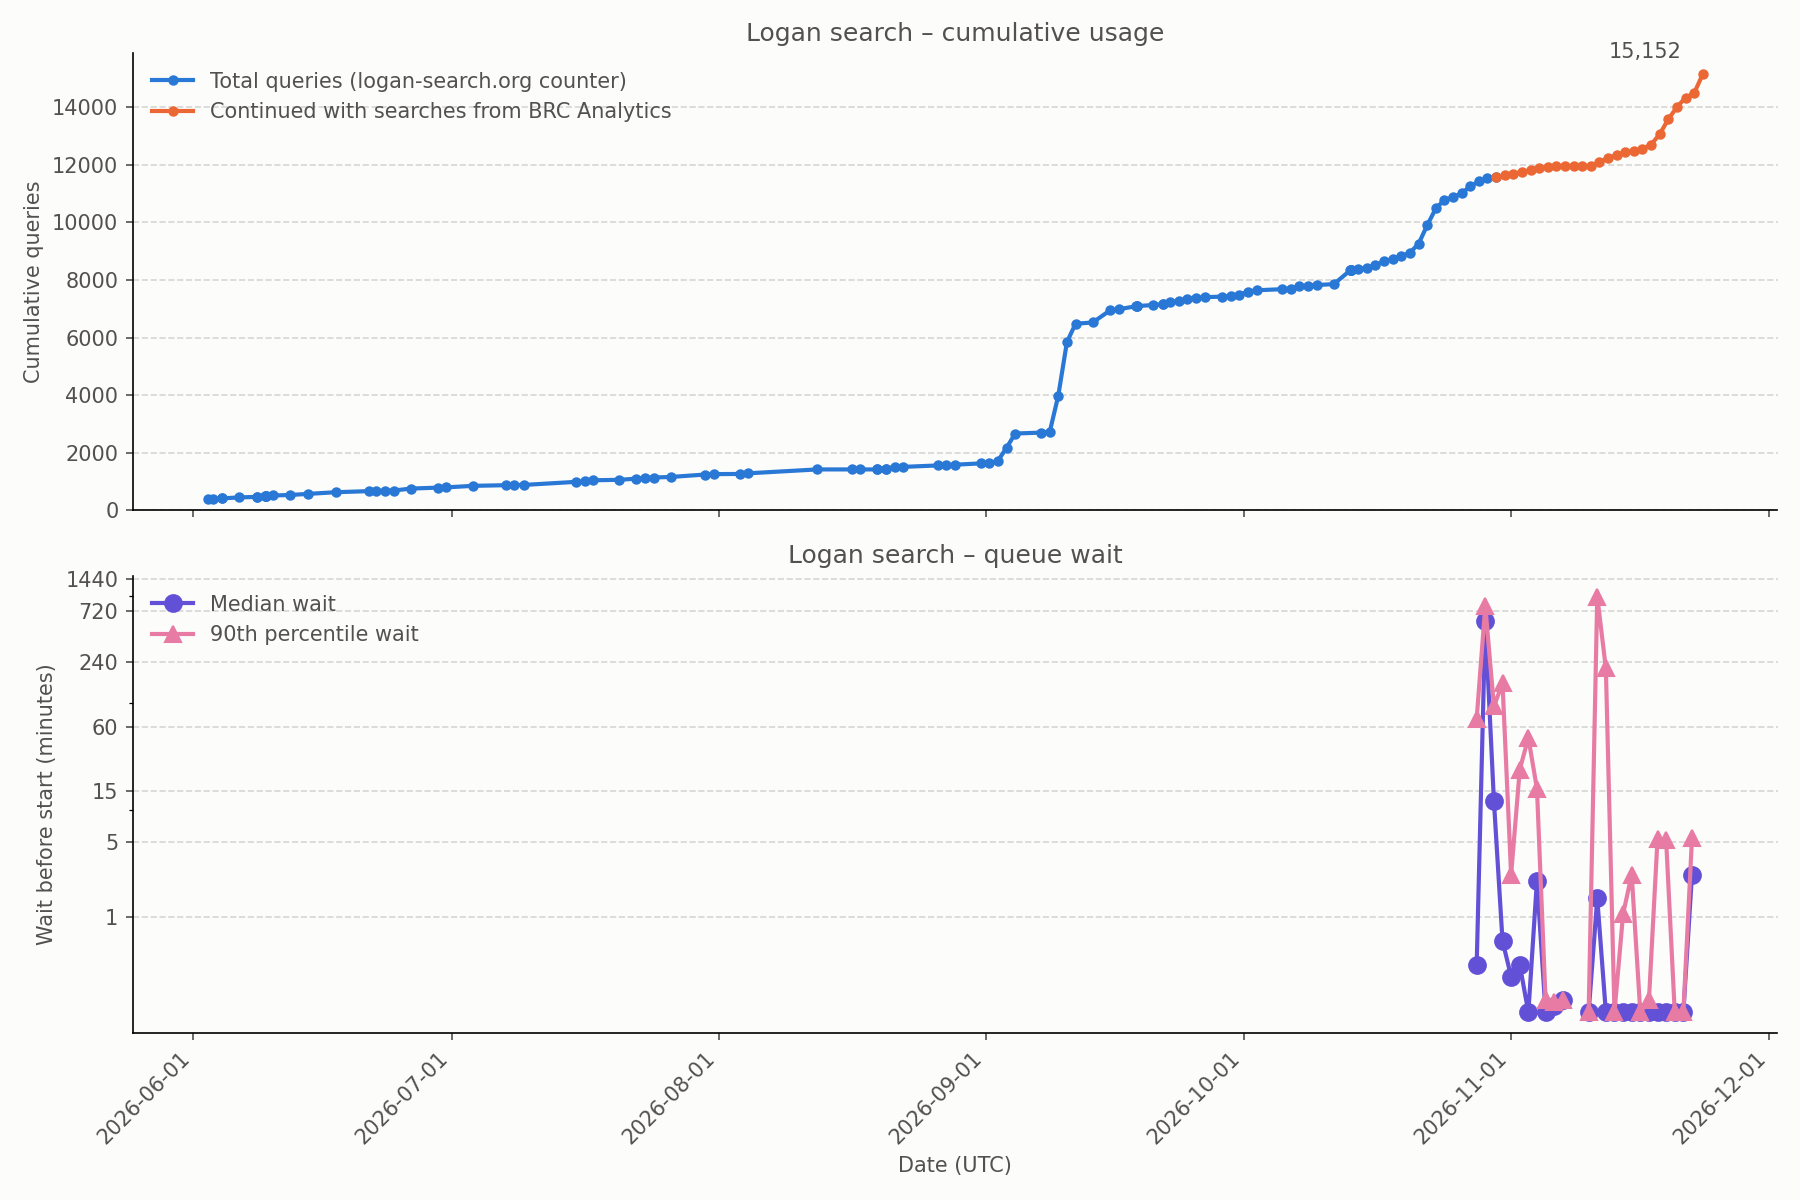
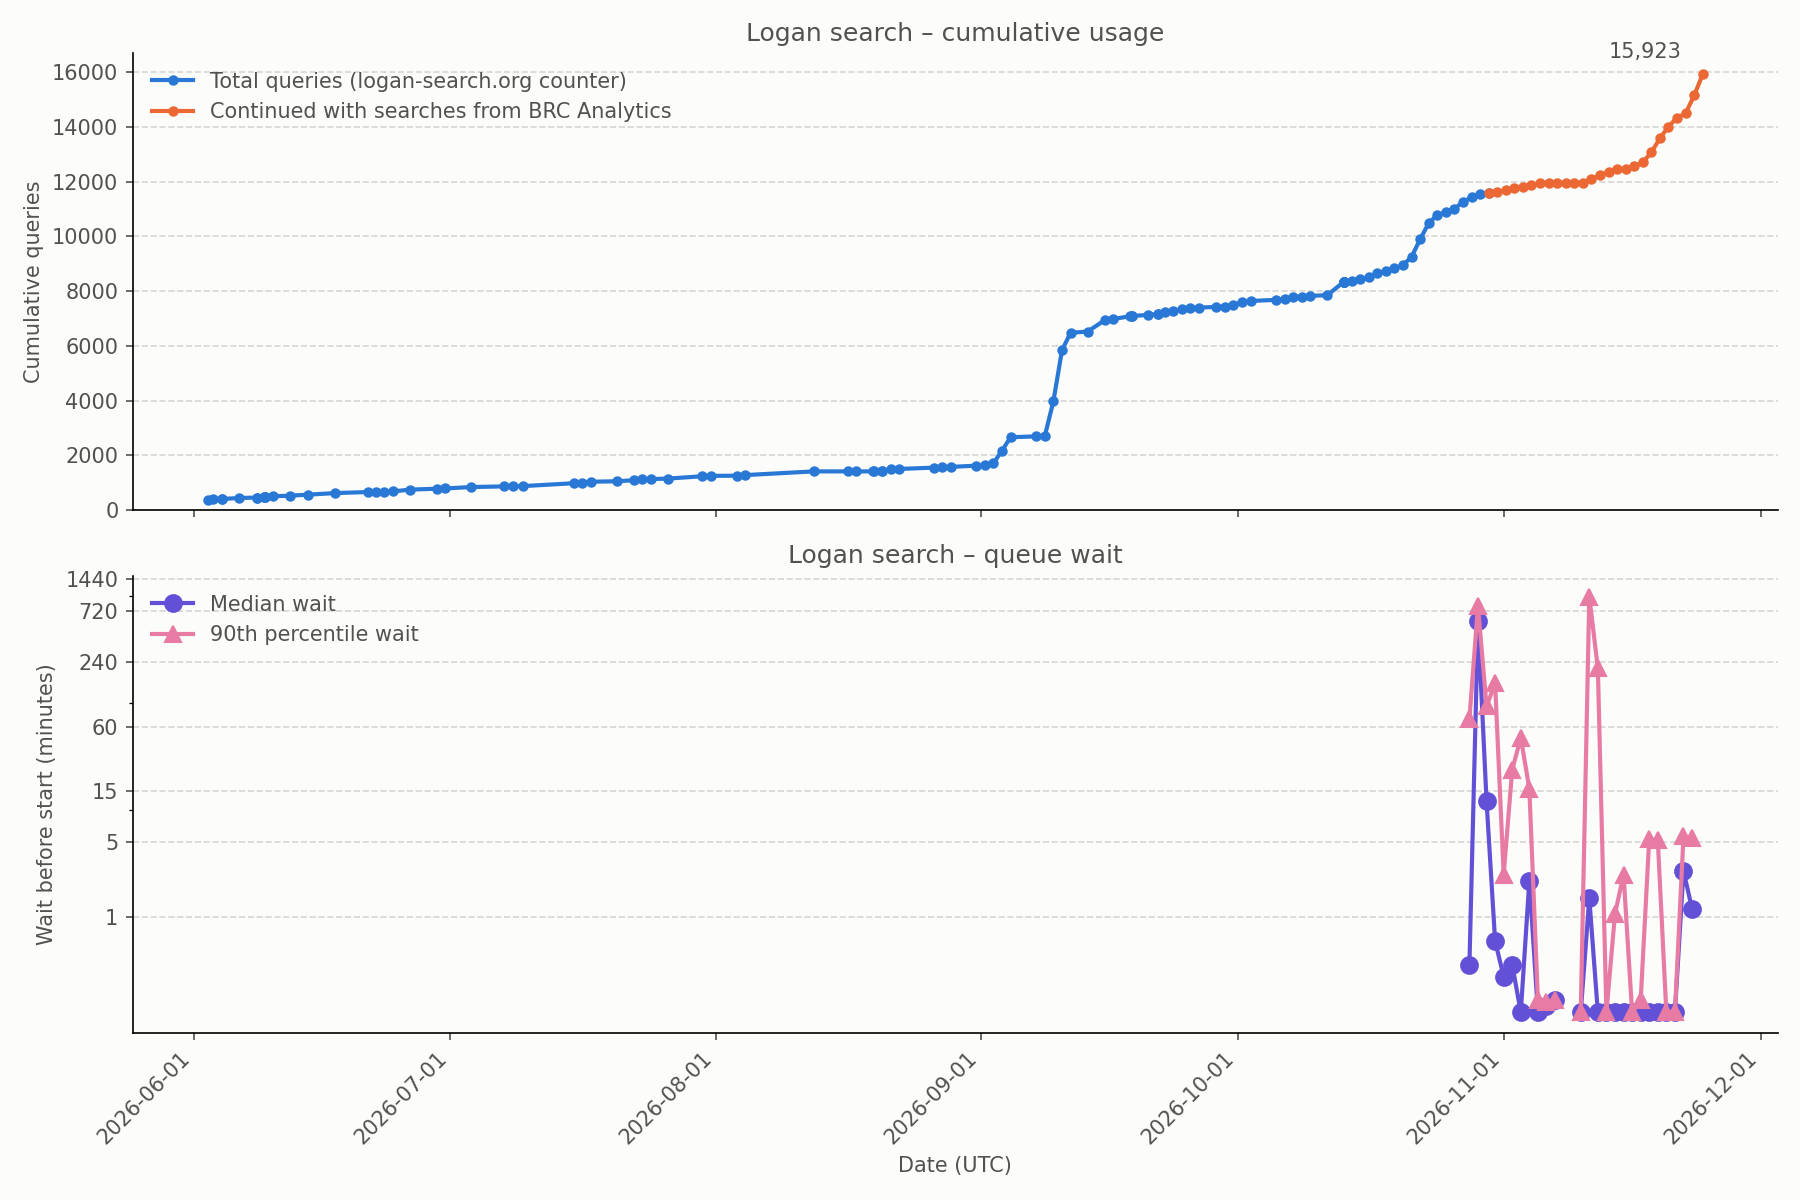
Update statistics 2026-11-24

diff --git a/README.md b/README.md
@@ -5,8 +5,8 @@ Usage statistics of [Logan Search](https://logan-search.org), updated once a day
 ## Yesterday
 
 <!-- daily-queries:start -->
-**Queries on 2026-11-22 (UTC): 571** on the backend (BRC Analytics history).
-The logan-search.org counter increased by 657 between 2026-11-22 06:00 and 2026-11-23 06:00 UTC.
+**Queries on 2026-11-23 (UTC): 777** on the backend (BRC Analytics history).
+The logan-search.org counter increased by 786 between 2026-11-23 06:00 and 2026-11-24 06:00 UTC.
 <!-- daily-queries:end -->
 
 ## Queries made on logan-search.org
